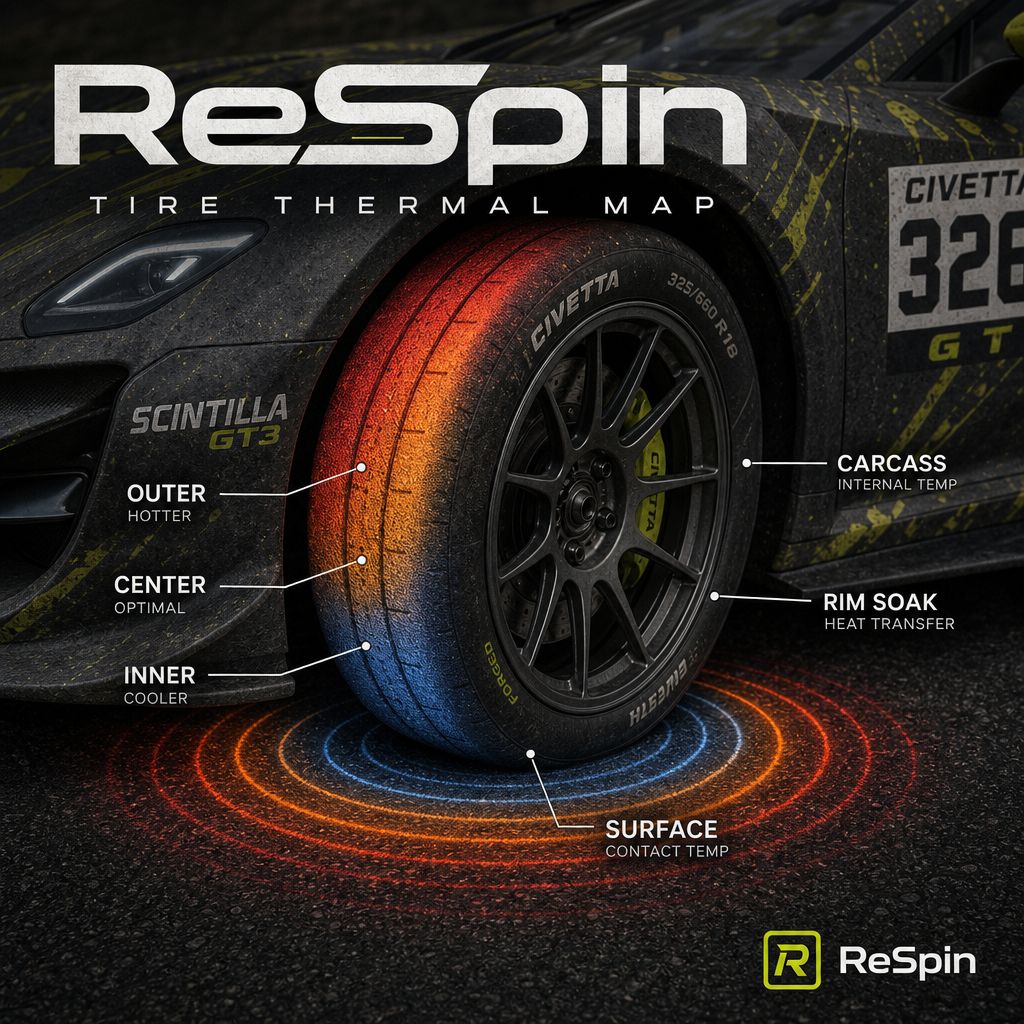
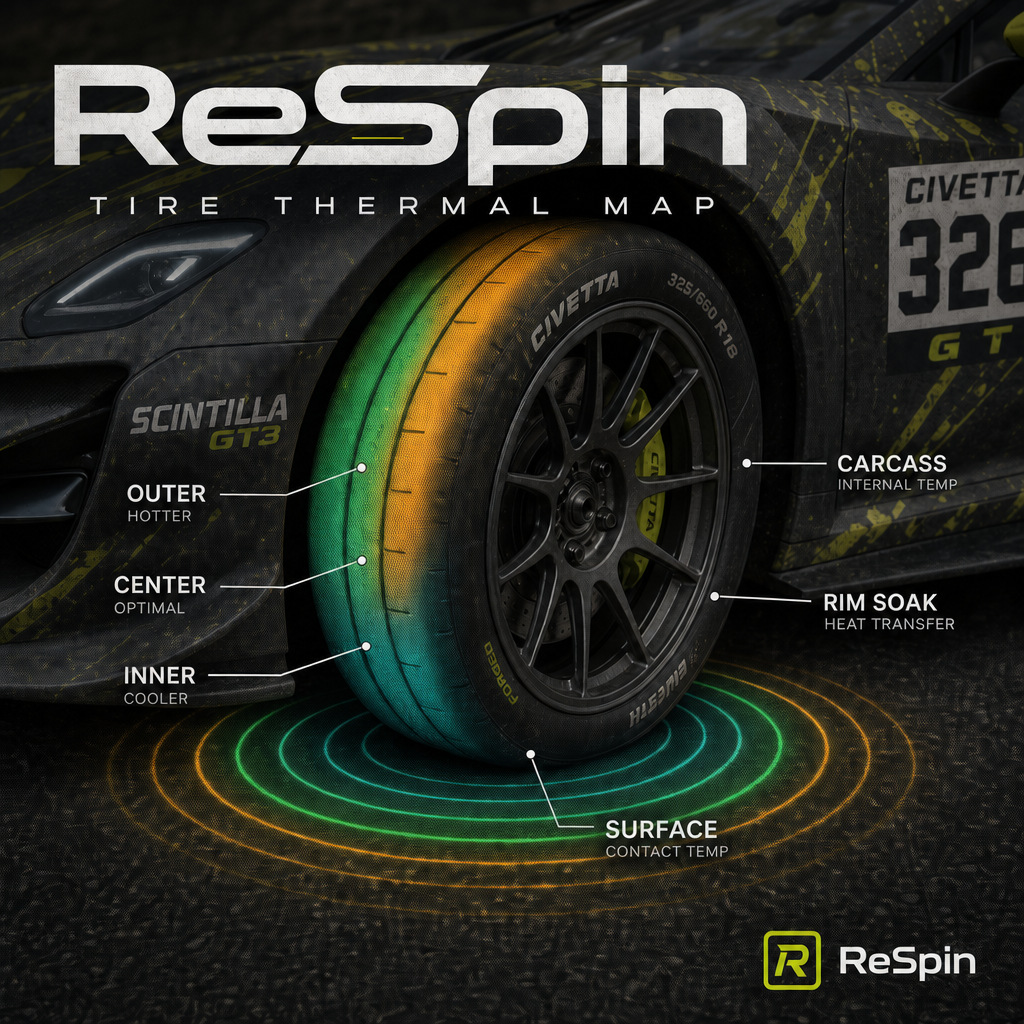
Rebuild listing heroes from the 8K photo-mode plate.
Keep ReSpin type off the car, retint the thermal map to Pitwall colors, and credit Scintilla GT3 listing permission.

diff --git a/LISTING.md b/LISTING.md
@@ -160,11 +160,11 @@ Yes — BeamNG Repo listings support **multiple images** with **captions/descrip
 
 | Image | Resource | Caption / description (paste on upload) |
 | --- | --- | --- |
-| `mod_info/TWTRS_RESPIN/images/listing_hero.jpg` (icon: `icon.jpg`) | **Core** ReSpin | **ReSpin** — Tire wear, thermals & grip for BeamNG.drive. Open-source continuation of Luuk + Redux. |
+| `mod_info/TWTRS_RESPIN/images/listing_hero.jpg` (icon: `icon.jpg`) | **Core** ReSpin | **ReSpin** — Tire wear, thermals & grip for BeamNG.drive. Open-source continuation of Luuk + Redux. Vehicle: Scintilla GT3 Racing Parts (listing stills used with author permission). |
 | `mod_info/TWTRS_RESPIN/images/ui_four_apps.jpg` | **Core** ReSpin | **Four UI tiers in one shot** — Pitwall (full engineer), Crew (carcass + stint fade), Driver (quick read), and Classic (compact I/C/O temps). Pick the density you need. |
 | `mod_info/TWTRS_RESPIN/images/ducts.jpg` | **Core** ReSpin | **Brake cooling ducts** — Tuning → Brakes → Front/Rear Cooling Ducts (1% = closed, 100% = open). Saved with the vehicle `.pc`. |
 | `mod_info/TWTRS_COMPAT/images/listing_hero.jpg` (icon: `icon.jpg`) | **Compat Tires** companion | **ReSpin Tires** — Optional selectable `*_Respin` GT3 tire JBeams (meshes stay in the car mods). Install beside core ReSpin. |
-| `mod_info/TWTRS_RESPIN/images/tire_thermal_map.jpg` (draft) | **Core** ReSpin (optional 4th gallery) | **Tire thermal map** — Inner / center / outer tread + surface, carcass, and rim-soak callouts (same Hirochi / ring language as the hero). |
+| `mod_info/TWTRS_RESPIN/images/tire_thermal_map.jpg` (draft) | **Core** ReSpin (optional 4th gallery) | **Tire thermal map** — Inner / center / outer tread in Pitwall colors (cyan-teal cooler, green usable, amber hotter) plus surface, carcass, and rim-soak callouts. |
 
 Masters (do not restyle without unlock): `tools/listing/locked/respin-core-hero.jpg`, `respin-compat-hero.jpg`, `respin-ui-four-apps.jpg`, `respin-ducts.jpg`. Draft (not locked): `tools/listing/drafts/respin-tire-thermal-map.jpg`.
 
@@ -196,6 +196,7 @@ Locked poster icons replace the older tyre/pit thumbnail:
 
 - **lucky4luuk** — original work released as open source; cite authorship.
 - **Zesty_Maple98** — Redux expansion; permission received for this ReSpin.
+- **Scintilla GT3 Racing Parts** (Exchy / Turbo49 / Cyborella et al.) — courtesy permission for listing photo-mode stills that show that vehicle. Meshes stay in their pack.
 
 ## Compatibility tires (optional companions — not ReSpin authors)
 

diff --git a/tools/listing/locked/README.md b/tools/listing/locked/README.md
@@ -1,15 +1,21 @@
 # Locked listing art (do not restyle casually)
 
-Locked **2026-08-14** from the Hirochi Raceway photo-mode capture + poster mix.
+Locked **2026-08-15** from the 8K photo-mode plate (`screenshot_2026-08-15_11-24-27.png`) + ReSpin type.
+
+Scintilla GT3 vehicle shown in heroes / thermal-map stills: **courtesy permission** from Scintilla GT3 Racing Parts authors for ReSpin Repo listing use (see `CREDITS.md`).
 
 | File | Use |
 | --- | --- |
-| `respin-core-hero.jpg` | Core ReSpin listing / icon master |
-| `respin-compat-hero.jpg` | Compat Tires companion listing / icon master (same plate, “ReSpin Tires” title) |
+| `respin-core-hero.jpg` | Core ReSpin listing / icon master — 8K 3/4 plate, type in sky/asphalt (not across the body) |
+| `respin-compat-hero.jpg` | Compat Tires companion listing / icon master — tighter crop of the same plate, “ReSpin Tires” title |
 | `respin-ui-four-apps.jpg` | Core gallery — all four UI apps (exposure-corrected from in-game capture) |
 | `respin-ui-four-apps-raw.png` | Original overexposed capture (provenance) |
-| `respin-ducts.jpg` | Core gallery — Brakes cooling ducts (clean recreation from jagged snip (source cut off reset controls)) |
+| `respin-ducts.jpg` | Core gallery — Brakes cooling ducts (unchanged) |
 | `respin-ducts-raw.png` | Original jagged snip (provenance) |
+| `archive-core-hero-hirochi-2026-08-15.jpg` | Previous core (Hirochi plate composite) |
+| `archive-compat-hero-hirochi-2026-08-15.jpg` | Previous compat (Hirochi plate composite) |
+| `archive-core-hero-2026-08-14.jpg` | Earlier core (type covered the car) |
+| `archive-compat-hero-2026-08-14.jpg` | Earlier compat (red rings) |
 | `archive-mix-1x1-not-used.jpg` | Earlier mix (weaker brand) — archive only |
 
 Shipped copies:
@@ -19,4 +25,4 @@ Shipped copies:
 
 Regen icons from masters if needed; do not replace masters without an explicit unlock.
 
-Draft (not locked — candidate core gallery #4): `../drafts/respin-tire-thermal-map.jpg` — tire close-up thermal diagram (I/C/O + surface / carcass / rim soak).
+Draft (not locked — candidate core gallery #4): `../drafts/respin-tire-thermal-map.jpg` — tire close-up thermal diagram with Pitwall I/C/O colors (cyan-teal cooler / green usable / amber hotter) plus surface / carcass / rim soak.

diff --git a/tools/listing/originals/README.md b/tools/listing/originals/README.md
@@ -1,0 +1,16 @@
+# Original listing plates (unaltered)
+
+Do **not** overlay these. The locked heroes in `../locked/` are poster mixes from a square crop of the current plate.
+
+| File | Source |
+| --- | --- |
+| `scintilla-gt3-photomode-2026-08-15-112427.jpg` | BeamNG photo-mode, 2026-08-15 11:24, 3840×2160 JPEG of the 8K capture (no HUD). Current hero plate. |
+| `hirochi-scintilla-gt3-photomode-2026-08-14.png` | Previous Hirochi Raceway plate, 2026-08-14 15:37, ~5430×3054. Kept as provenance. |
+
+Live 8K game copy (do **not** commit / ship; ~118 MB):
+
+`C:\Users\anton\AppData\Local\BeamNG\BeamNG.drive\current\screenshots\2026-08\screenshot_2026-08-15_11-24-27.png`
+
+Older live copy:
+
+`C:\Users\anton\AppData\Local\BeamNG\BeamNG.drive\current\screenshots\2026-08\screenshot_2026-08-14_15-37-41.png`

diff --git a/PUBLISH_CHECKLIST.md b/PUBLISH_CHECKLIST.md
@@ -39,6 +39,7 @@ Live Belasco / WCU Track ~15°C protocol (~4 laps / ~22 km). Soft compound knobs
 - [x] Credit **lucky4luuk** (original, open source — cite authorship) and **Zesty_Maple98** (Redux) — `CREDITS.md`, `NOTICE`, README, app authors, listing text
 - [x] Luuk: open-source release; authorship citation required (stated in listing)
 - [x] Zesty_Maple98 official permission received (stated in listing)
+- [x] Scintilla GT3 listing photo-mode stills — courtesy permission obtained (stated in `CREDITS.md` / `LISTING.md`)
 - [x] Confirm BeamNG forum username: `antoniomdavis36749`
 - [x] Link **your** GitHub source on the listing (`LISTING.md` / `info.json`)
 

diff --git a/CREDITS.md b/CREDITS.md
@@ -26,3 +26,7 @@ ReSpin may ship **JBeam-only** selectable clones (`*_Respin`) in a **separate Co
 
 - **Scintilla GT3 Racing Parts** (Exchy / Turbo49 / Cyborella et al.) — https://www.beamng.com/resources/scintilla-gt3-racing-parts.23027/
 - **Pigniteon ETK Racing** — credit per that pack’s Repo listing
+
+## Listing imagery
+
+Repo heroes / gallery stills that show the **Civetta Scintilla GT3** are in-game photo-mode captures of that pack. **Courtesy permission** was obtained from the pack authors for ReSpin listing use. ReSpin does not redistribute their meshes, textures, or sounds.
